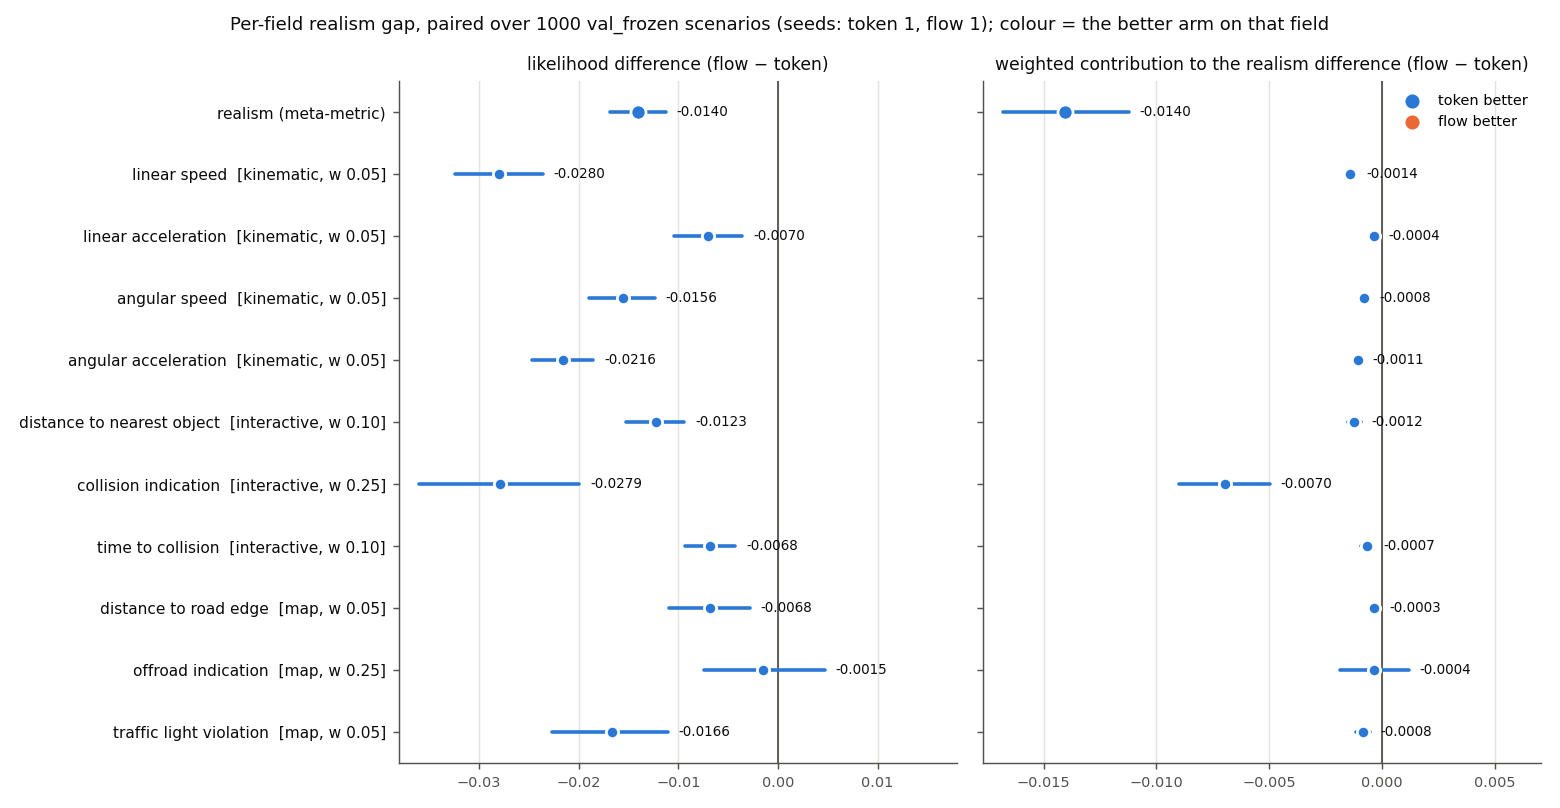
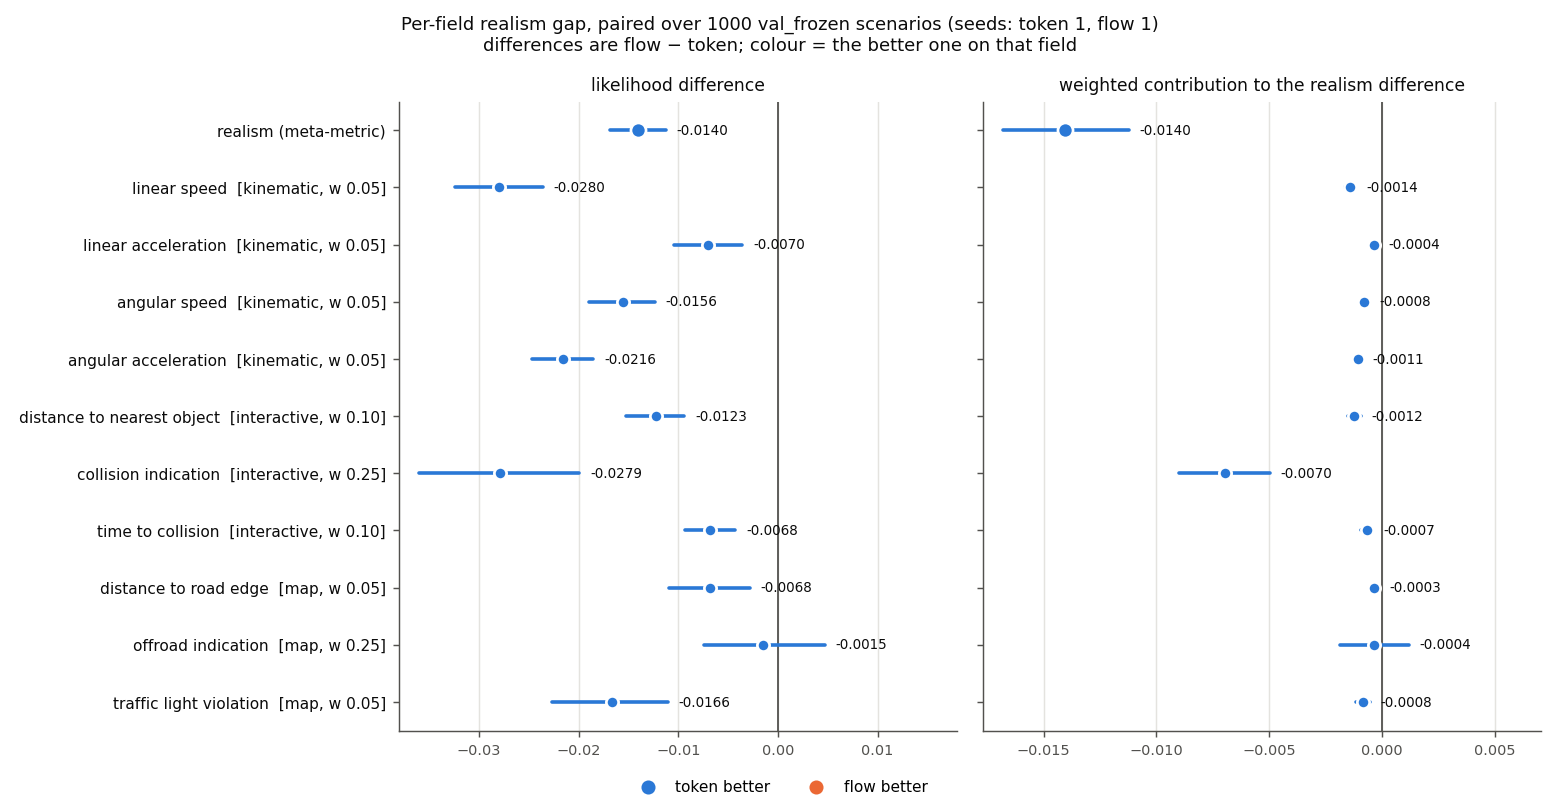
figures: add field breakdown of the freezing run

diff --git a/src/tokens_vs_flows/figures.py b/src/tokens_vs_flows/figures.py
@@ -225,10 +225,12 @@ def per_scenario(runs: List[Path]) -> Dict[str, np.ndarray]:
 
 
 def field_gaps(a_runs: List[Path], b_runs: List[Path], out: Path, labels=("token", "flow"), title: str = "",
-               n_boot: int = 10000) -> None:
+               n_boot: int = 10000, colors: Dict[str, str] = None) -> None:
     """Where the realism gap between two arms comes from: per WOSAC field, the paired per-scenario difference
     b - a of the likelihood (left) and its weighted contribution to the meta-metric difference (right), with 95%
-    bootstrap intervals over scenarios. Dots take the colour of the arm that is better on that field."""
+    bootstrap intervals over scenarios. Dots take the colour of the arm that is better on that field (colors maps
+    each label to a colour; default ARM_COLORS)."""
+    colors = colors or ARM_COLORS
     import sys
     from tokens_vs_flows import ROOT
     sys.path.insert(0, str(ROOT / "eval"))
@@ -252,25 +254,25 @@ def field_gaps(a_runs: List[Path], b_runs: List[Path], out: Path, labels=("token
             d = (b[key] - a[key]) * (w if k == 1 else 1.0)
             boot = d[idx].mean(1)
             lo, hi = np.percentile(boot, [2.5, 97.5])
-            c = ARM_COLORS.get(labels[1] if d.mean() > 0 else labels[0], MUTED)
+            c = colors.get(labels[1] if d.mean() > 0 else labels[0], MUTED)
             ax.plot([lo, hi], [i, i], color=c, lw=2, solid_capstyle="round")
             ax.scatter(d.mean(), i, s=46 if i else 70, color=c, zorder=3, edgecolors="white", linewidths=1.5)
             ax.annotate(f"{d.mean():+.4f}", (hi, i), xytext=(6, 0), textcoords="offset points", va="center",
                         fontsize=7.5, color=INK)
-        ax.set_title(("likelihood difference" if k == 0 else "weighted contribution to the realism difference")
-                     + f" ({labels[1]} − {labels[0]})", fontsize=9.5, color=INK)
+        ax.set_title("likelihood difference" if k == 0 else "weighted contribution to the realism difference",
+                     fontsize=9.5, color=INK)
         xl = ax.get_xlim()
         ax.set_xlim(xl[0], xl[1] + 0.25 * (xl[1] - xl[0]))
-    for arm in labels:
-        axes[1].scatter([], [], s=46, color=ARM_COLORS.get(arm, MUTED), label=f"{arm} better")
-    axes[1].legend(fontsize=8, frameon=False, loc="upper right")
+    handles = [axes[1].scatter([], [], s=46, color=colors.get(arm, MUTED), label=f"{arm} better") for arm in labels]
+    fig.legend(handles=handles, fontsize=8.5, frameon=False, loc="lower center", ncol=2)
     names = [r[0] + (f"  [{r[3]}, w {r[2]:.2f}]" if r[3] else "") for r in rows]
     axes[0].set_yticks(range(len(rows)), names, fontsize=8.5, color=INK)
     axes[0].invert_yaxis()
-    fig.suptitle(title or f"Per-field realism gap, paired over {n} val_frozen scenarios (seeds: {labels[0]} "
-                          f"{len(a_runs)}, {labels[1]} {len(b_runs)}); colour = the better arm on that field",
+    fig.suptitle((title or f"Per-field realism gap, paired over {n} val_frozen scenarios (seeds: {labels[0]} "
+                           f"{len(a_runs)}, {labels[1]} {len(b_runs)})")
+                 + f"\ndifferences are {labels[1]} − {labels[0]}; colour = the better one on that field",
                  fontsize=10, color=INK)
-    fig.tight_layout()
+    fig.tight_layout(rect=(0, 0.04, 1, 1))
     out.parent.mkdir(parents=True, exist_ok=True)
     fig.savefig(out, dpi=130)
     plt.close(fig)
@@ -651,6 +653,13 @@ def main():
                      title=f"Sampling knobs trade diversity for realism (seed {s}, val_frozen; ringed = configured point;"
                            " token: top-k, flow: initial-noise scale)")
     field_gaps(seeds["token"], seeds["flow"], figs / "field_gaps_token_vs_flow.png")
+    frozen = runs / f"fpo_clip0.01_flow_noise_s{s}"
+    if (frozen / "per_scenario.csv").exists():
+        field_gaps([runs / f"bc_flow_noise_s{s}"], [frozen], figs / f"field_gaps_freezing_s{s}.png",
+                   labels=("behaviour cloning", "after 30 FPO iterations"),
+                   colors={"behaviour cloning": MUTED, "after 30 FPO iterations": ARM_COLORS["flow"]},
+                   title=f"Where the traffic-freezing run's realism gain comes from (flow head with history noise, "
+                         f"seed {s}, paired over 1000 val_frozen scenarios)")
     behaviour = [("log replay", runs / "eval_log_replay", "ref"),
                  ("token: behaviour cloning", runs / f"bc_token_s{s}", "token"),
                  ("token: PPO, 100 iterations", runs / f"ppo_token_s{s}", "token_rl"),
@@ -692,6 +701,7 @@ def main():
                       title=f"FPO bends the flow head's sampling paths, with or without reward;\nthe velocity anchor "
                             f"keeps them as straight as behaviour cloning's (seed {s})")
     print("wrote", figs / "realism_ladder.png", figs / f"sampling_sweeps_s{s}.png", figs / "field_gaps_token_vs_flow.png",
+          figs / f"field_gaps_freezing_s{s}.png",
           figs / f"rl_behaviour_s{s}.png", figs / f"flow_straightness_s{s}.png", figs / f"anchor_study_s{s}.png")
 
 
